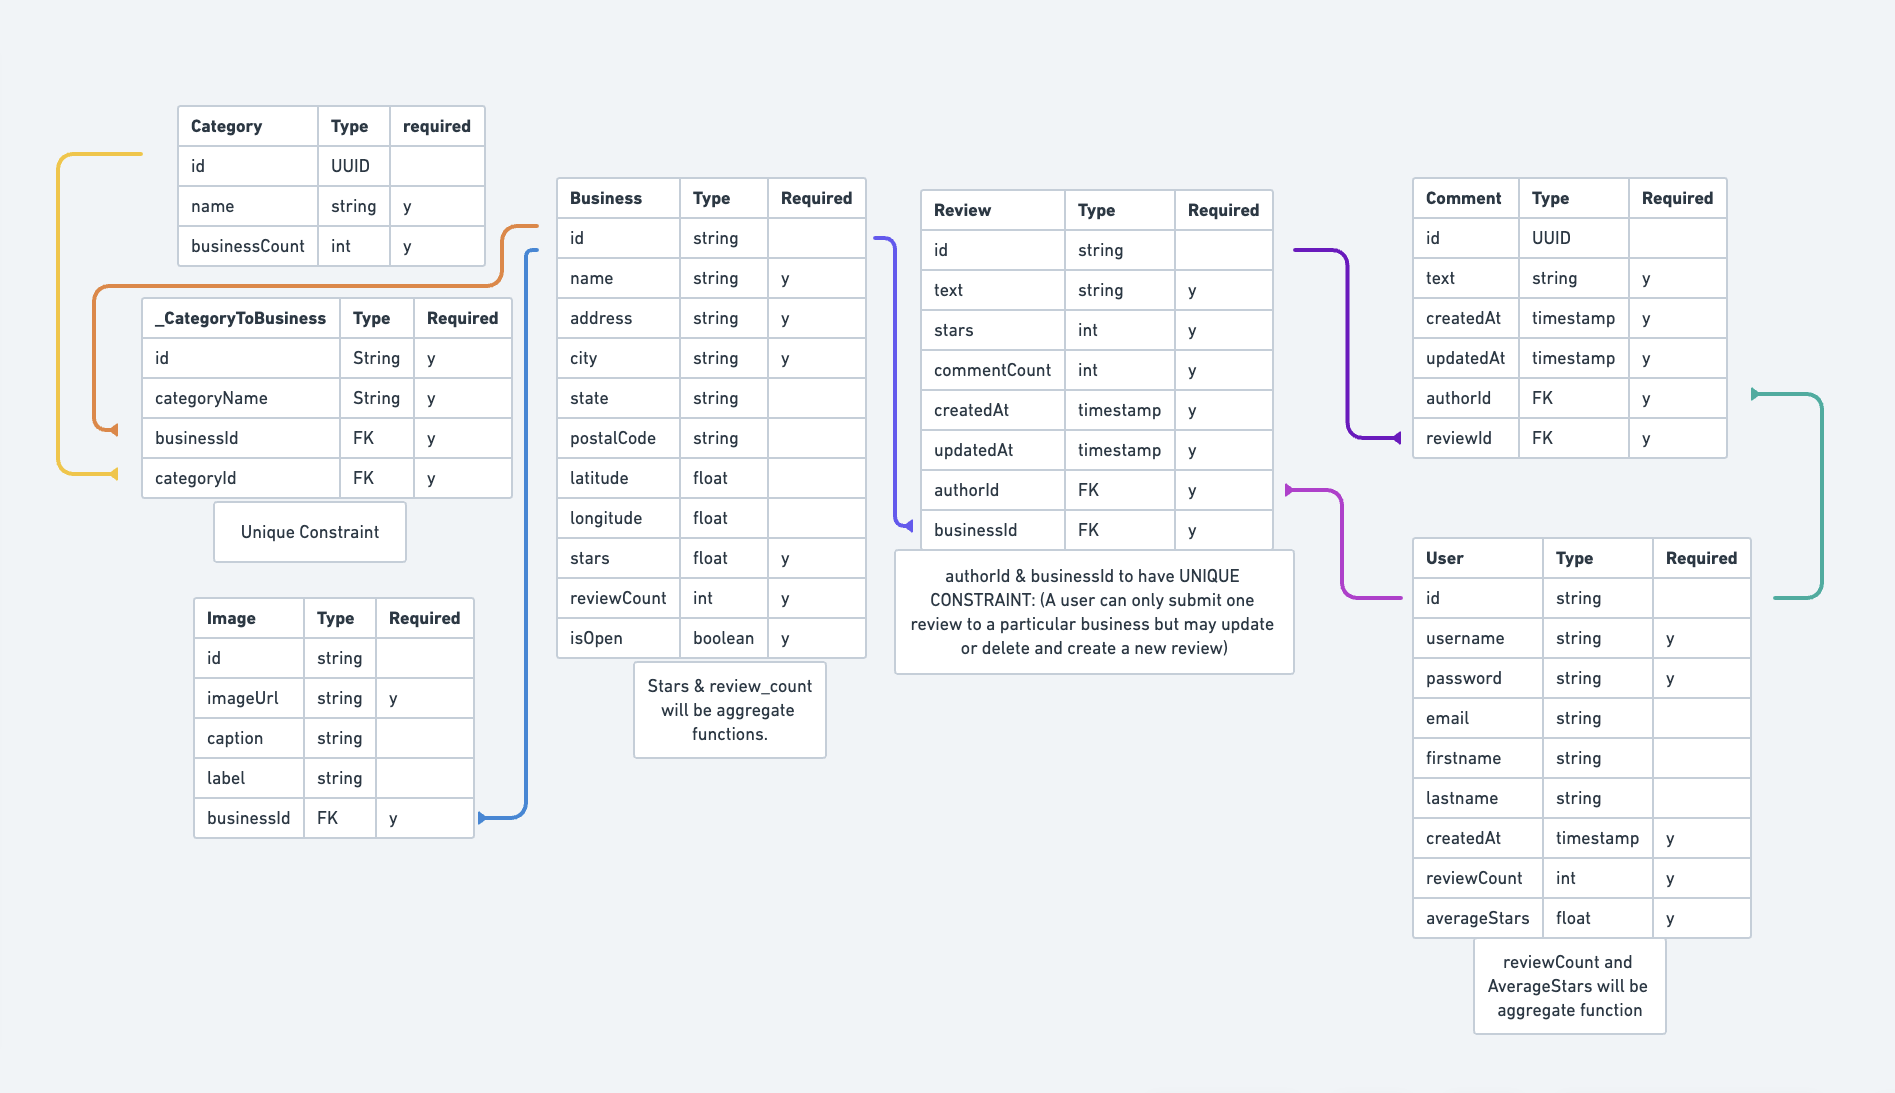
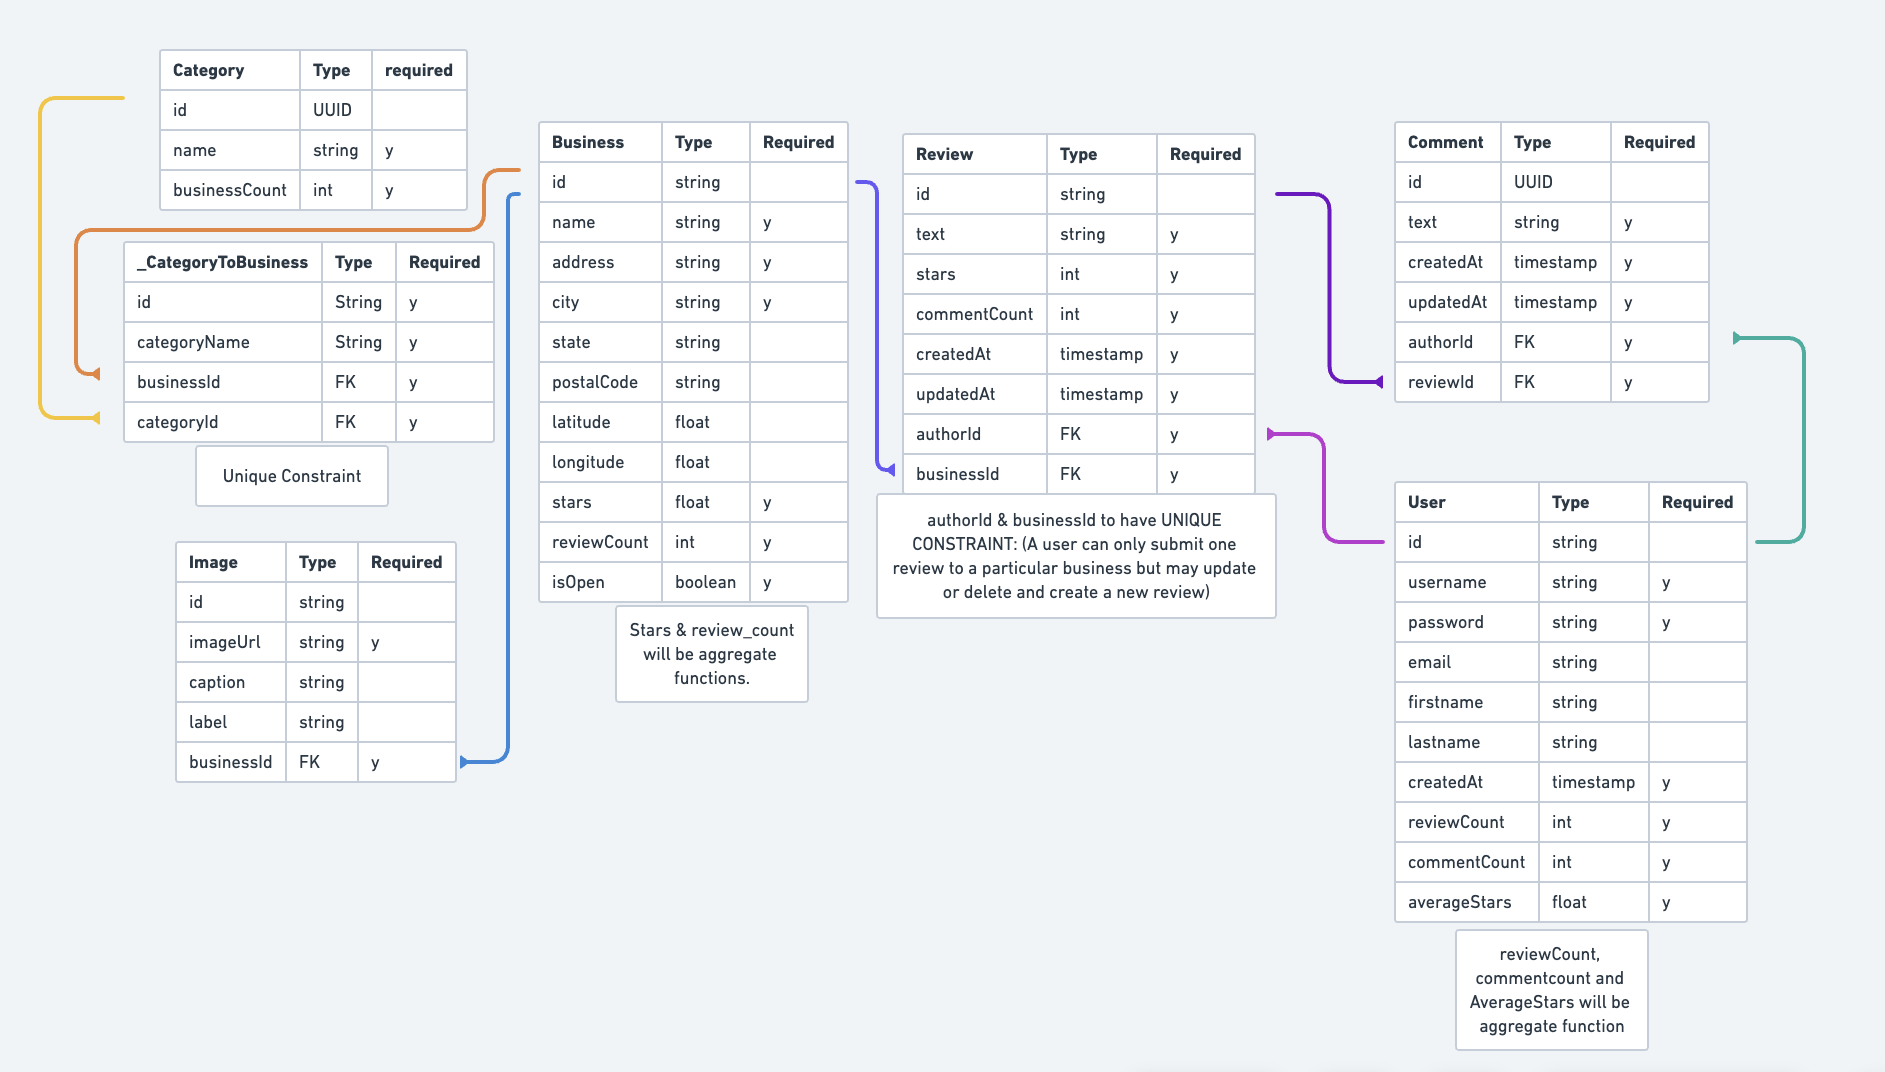
created comment endpoints

diff --git a/api/comment.js b/api/comment.js
@@ -8,21 +8,23 @@ const {
   updateComment,
   deleteComment,
 } = require("../db/comments");
-const { checkUserIsNotAuthor } = require("./utils");
+const { checkUserIsNotAuthor, checkCommentData } = require("./utils");
 
 // user will be set to req.user as token will be required for comment functions
 
 // POST /api/comment/:reviewId
 commentRouter.post(
-  "/:reviewid",
+  "/review/:reviewId",
   // check user is not author of review
+  // then check user provided text for comment
   checkUserIsNotAuthor,
+  checkCommentData,
   async (req, res, next) => {
     try {
       const newComment = await createComment({
         ...req.body,
         authorId: req.user.id,
-        reviewId: req.params.reviewid,
+        reviewId: req.params.reviewId,
       });
 
       res.status(201).send({ newComment });
@@ -32,4 +34,14 @@ commentRouter.post(
   }
 );
 
+// PUT /api/comment/:id
+commentRouter.put("/:id", checkCommentData, async (req, res, next) => {
+  try {
+    const putComment = await updateComment(req.params.id, req.body.text);
+
+    res.send({ putComment });
+  } catch ({ name, message }) {
+    next({ name, message });
+  }
+});
 module.exports = commentRouter;

diff --git a/db/users.js b/db/users.js
@@ -15,6 +15,15 @@ const countUserReviews = (id) => {
   });
 };
 
+// aggregate user's comment count to update table column
+const countUserComments = (id) => {
+  return prisma.comment.count({
+    where: {
+      authorId: id,
+    },
+  });
+};
+
 // aggregate user's average stars to update table column
 const averageUserStars = (id) => {
   // return will look like: { _avg: { stars: 5 } }
@@ -33,11 +42,13 @@ const roundHalf = (num) => {
 // update user aggregate fields reviewCount & averageStars
 const updateUser = async (id) => {
   const numUserReviews = await countUserReviews(id);
+  const numUserComments = await countUserComments(id);
   const roundAvgUserStars = roundHalf((await averageUserStars(id))._avg.stars);
   await prisma.user.update({
     where: { id },
     data: {
       reviewCount: numUserReviews,
+      commentCount: numUserComments,
       averageStars: roundAvgUserStars,
     },
   });

diff --git a/api/utils.js b/api/utils.js
@@ -66,7 +66,7 @@ const checkUserIsAuthor = async (req, res, next) => {
 
 // check if user is trying to comment on their own review
 const checkUserIsNotAuthor = async (req, res, next) => {
-  const review = await getReviewById(req.params.id);
+  const review = await getReviewById(req.params.reviewId);
   if (req.user.id === review.authorId) {
     return res
       .status(400)
@@ -74,6 +74,15 @@ const checkUserIsNotAuthor = async (req, res, next) => {
   }
   next();
 };
+
+const checkCommentData = async (req, res, next) => {
+  const { text } = req.body;
+  if (!text || !text.length) {
+    return res.status(400).send({ message: "Please provide text for comment" });
+  }
+  next();
+};
+
 module.exports = {
   requireUser,
   checkCreateReviewData,
@@ -81,4 +90,5 @@ module.exports = {
   checkUserHasReview,
   checkUserIsAuthor,
   checkUserIsNotAuthor,
+  checkCommentData,
 };

diff --git a/api/index.js b/api/index.js
@@ -57,7 +57,7 @@ apiRouter.use("/businesses", require("./businesses"));
 apiRouter.use("/review", requireUser, require("./review"));
 
 //  /api/comment
-apiRouter.use("/review", requireUser, require("./comment"));
+apiRouter.use("/comment", requireUser, require("./comment"));
 // review & comment routes will all need requireUser middleware!
 
 module.exports = apiRouter;

diff --git a/db/comments.js b/db/comments.js
@@ -13,9 +13,13 @@ const createComment = (commentData) => {
 };
 
 const updateComment = (id, commentData) => {
+  console.log(commentData);
   return prisma.comment.update({
     where: { id },
-    data: commentData,
+    data: {
+      updatedAt: new Date(),
+      ...commentData,
+    },
   });
 };
 

diff --git a/db/reviews.js b/db/reviews.js
@@ -9,7 +9,10 @@ const createReview = (reviewData) => {
 const updateReview = (id, reviewData) => {
   return prisma.review.update({
     where: { id },
-    data: reviewData,
+    data: {
+      updatedAt: new Date(),
+      ...reviewData,
+    },
   });
 };
 // delete a user review
